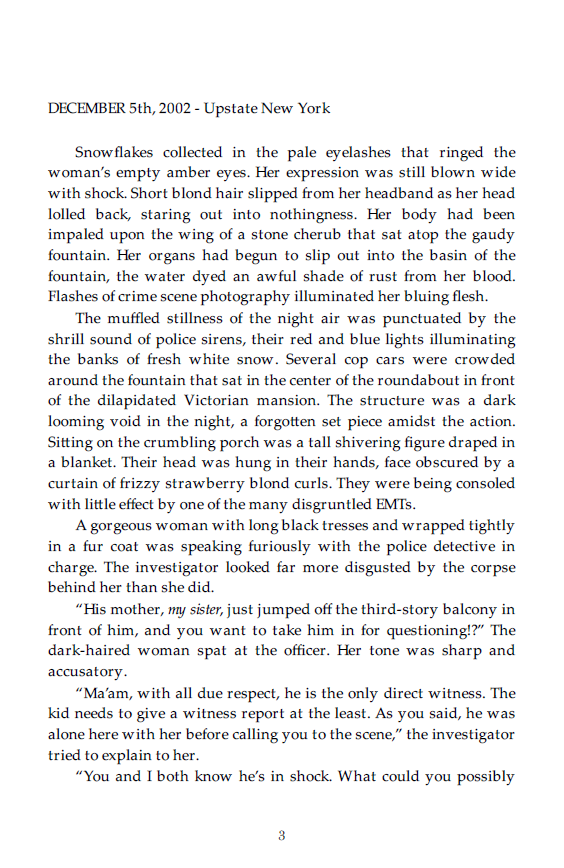
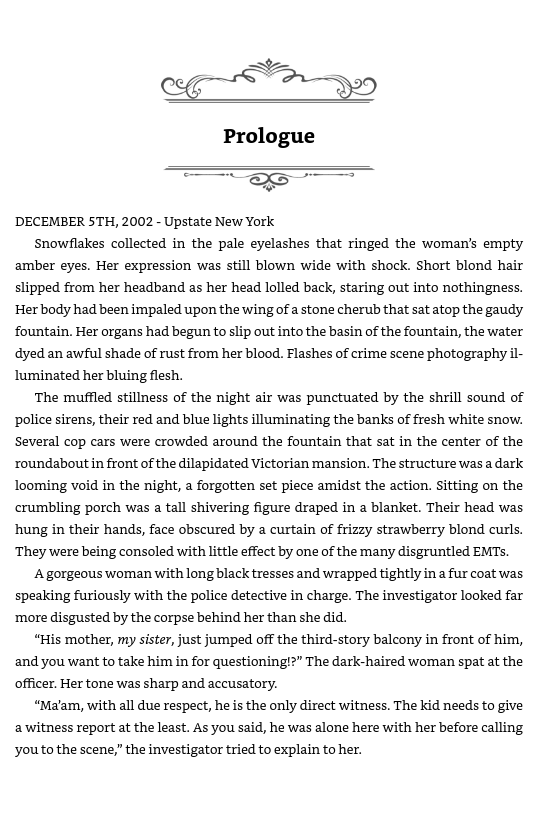
book page update2

Changed region(s): [[0.0297, 0.0615, 0.9814, 0.9533], [0.4758, 0.9533, 0.5056, 0.984]]

diff --git a/book.html b/book.html
@@ -32,9 +32,9 @@
             <!-- Content goes here -->
             <img src="./images/book_HTS/booke_title_web.png" alt="Haunting the Scavenger" class="title-img">
             <h1>March 24th 2026</h1>
-            <p class="paragraph1"><a href="https://www.dogearedbooks.com/mail-and-delivery-orders" class="nav-btn">Pre-Order in Paperback with Dog Eared Books!</a></p>
-            <p class="paragraph5"><b class="white">To Preorder:</b> Fill out the form on Dog Eared Books website and in the box "Tell us what you'd like to order!" put in "Haunting the Scavenger by Arlo Blackthorn"</p>
-            <p class="paragraph5">Pre-ordered paperbacks through Dog Eared will come signed with a special Thank You!</p>
+            <p class="paragraph1"><a href="https://www.dogearedbooks.com/order-a-book-2" class="nav-btn">Pre-Order in Paperback with Dog Eared Books!</a></p>
+            <p class="paragraph5"><b class="white">Signed paperback pre-orders EXCLUSIVLY at Dog Eared Books!</b></p>
+            <p class="paragraph5"><i>Books must be ordered through the Mail or In Store Pick Up forms (bookshop.org orders WILL NOT COUNT). In the "Tell us what you'd like to order!" just remembered to put "Haunting the Scavenger by Arlo Blackthorn." Not in San Francisco? Don't worry! Dog Eared Books will ship both domestically and internationally. Order Must be placed between now and release day to qualify (October 31st 2025 - March 23rd 2026).</i></p>
             <div class="line-divider4"></div>
             <div class="flex-row">
               <div class="flex-row custom-flex-img">
@@ -96,9 +96,9 @@
             <h1>Buy Digital</h1>
             <div class="blank-divider-small"></div>
             <ul class="centered-list">
-              <li><a href="placeholder">Amazon</a></li>
-              <li><a href="placeholder">Someplace elese</a></li>
-              <li><a href="placeholder">Another store</a></li>
+              <li><a href="placeholder">Comeing Soon</a></li>
+              <li><a href="placeholder">Comeing Soon</a></li>
+              <li><a href="placeholder">Comeing Soon</a></li>
             </ul>
 
 
